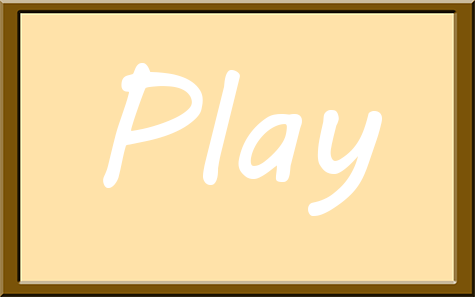
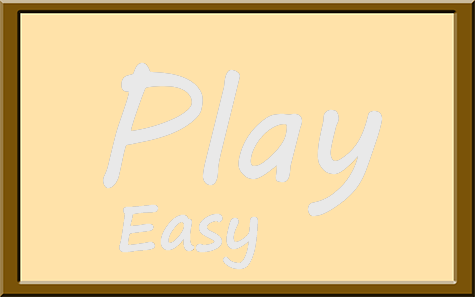
Add difficulty

diff --git a/core/src/com/hardgforgif/dragonboatracing/UI/MenuUI.java b/core/src/com/hardgforgif/dragonboatracing/UI/MenuUI.java
@@ -24,6 +24,10 @@ public class MenuUI extends UI {
 
     Texture playButtonActive;
     Texture playButtonInactive;
+    Texture playButtonActive1;
+    Texture playButtonInactive1;
+    Texture playButtonActive2;
+    Texture playButtonInactive2;
     Texture exitButtonActive;
     Texture exitButtonInactive;
     Texture logo;
@@ -37,6 +41,10 @@ public class MenuUI extends UI {
 
         playButtonActive = new Texture("PlaySelected.png");
         playButtonInactive = new Texture("PlayUnselected.png");
+        playButtonActive1 = new Texture("PlaySelected1.png");
+        playButtonInactive1 = new Texture("PlayUnselected1.png");
+        playButtonActive2 = new Texture("PlaySelected2.png");
+        playButtonInactive2 = new Texture("PlayUnselected2.png");
         exitButtonActive = new Texture("ExitSelected.png");
         exitButtonInactive = new Texture("ExitUnselected.png");
         logo = new Texture("Title.png");
@@ -53,9 +61,27 @@ public class MenuUI extends UI {
         if (mousePos.x < x + PLAY_BUTTON_WIDTH && mousePos.x > x &&
         // cur pos < top_height
                 mousePos.y < PLAY_BUTTON_Y + PLAY_BUTTON_HEIGHT && mousePos.y > PLAY_BUTTON_Y) {
+            batch.draw(playButtonActive1, x, PLAY_BUTTON_Y, PLAY_BUTTON_WIDTH, PLAY_BUTTON_HEIGHT);
+        } else {
+            batch.draw(playButtonInactive1, x, PLAY_BUTTON_Y, PLAY_BUTTON_WIDTH, PLAY_BUTTON_HEIGHT);
+        }
+
+        x = screenWidth / 2 - (3 * PLAY_BUTTON_WIDTH + 10)  / 2;
+        if (mousePos.x < x + PLAY_BUTTON_WIDTH && mousePos.x > x &&
+        // cur pos < top_height
+                mousePos.y < PLAY_BUTTON_Y + PLAY_BUTTON_HEIGHT && mousePos.y > PLAY_BUTTON_Y) {
             batch.draw(playButtonActive, x, PLAY_BUTTON_Y, PLAY_BUTTON_WIDTH, PLAY_BUTTON_HEIGHT);
         } else {
             batch.draw(playButtonInactive, x, PLAY_BUTTON_Y, PLAY_BUTTON_WIDTH, PLAY_BUTTON_HEIGHT);
+        }
+
+        x = screenWidth / 2 + (PLAY_BUTTON_WIDTH + 10) / 2;
+        if (mousePos.x < x + PLAY_BUTTON_WIDTH && mousePos.x > x &&
+        // cur pos < top_height
+                mousePos.y < PLAY_BUTTON_Y + PLAY_BUTTON_HEIGHT && mousePos.y > PLAY_BUTTON_Y) {
+            batch.draw(playButtonActive2, x, PLAY_BUTTON_Y, PLAY_BUTTON_WIDTH, PLAY_BUTTON_HEIGHT);
+        } else {
+            batch.draw(playButtonInactive2, x, PLAY_BUTTON_Y, PLAY_BUTTON_WIDTH, PLAY_BUTTON_HEIGHT);
         }
 
         // Otherwise draw the selected buttons
@@ -86,6 +112,29 @@ public class MenuUI extends UI {
             // Switch to the choosing state
             GameData.mainMenuState = false;
             GameData.choosingBoatState = true;
+            GameData.difficulty = new float[] { 0.9f, 0.9f, 0.9f };
+            GameData.currentUI = new ChoosingUI();
+        }
+
+        x = screenWidth / 2 - (3 * PLAY_BUTTON_WIDTH + 10)  / 2;
+        if (clickPos.x < x + PLAY_BUTTON_WIDTH && clickPos.x > x &&
+        // cur pos < top_height
+                clickPos.y < PLAY_BUTTON_Y + PLAY_BUTTON_HEIGHT && clickPos.y > PLAY_BUTTON_Y) {
+            // Switch to the choosing state
+            GameData.mainMenuState = false;
+            GameData.choosingBoatState = true;
+            GameData.difficulty = new float[] { 0.8f, 0.8f, 0.8f };
+            GameData.currentUI = new ChoosingUI();
+        }
+
+        x = screenWidth / 2 + (PLAY_BUTTON_WIDTH + 10) / 2;
+        if (clickPos.x < x + PLAY_BUTTON_WIDTH && clickPos.x > x &&
+        // cur pos < top_height
+                clickPos.y < PLAY_BUTTON_Y + PLAY_BUTTON_HEIGHT && clickPos.y > PLAY_BUTTON_Y) {
+            // Switch to the choosing state
+            GameData.mainMenuState = false;
+            GameData.choosingBoatState = true;
+            GameData.difficulty = new float[] { 1f, 1f, 1f };
             GameData.currentUI = new ChoosingUI();
         }
 

diff --git a/core/src/com/hardgforgif/dragonboatracing/Game.java b/core/src/com/hardgforgif/dragonboatracing/Game.java
@@ -60,10 +60,10 @@ public class Game extends ApplicationAdapter implements InputProcessor {
 			map[i].createMapCollisions("CollisionLayerRight", world[i]);
 
 			// Create the lanes, and the obstacles in the physics game world
-			map[i].createLanes(world[i]);
+			//map[i].createLanes(world[i]);
 
 			// Create the finish line
-			map[i].createFinishLine("finishLine.png");
+			//map[i].createFinishLine("finishLine.png");
 
 			// Create a new collision handler for the world
 			createContactListener(world[i]);
@@ -250,6 +250,13 @@ public class Game extends ApplicationAdapter implements InputProcessor {
 			// Draw the UI and wait for the input
 			GameData.currentUI.drawUI(UIbatch, mousePosition, Gdx.graphics.getWidth(), Gdx.graphics.getDeltaTime());
 			GameData.currentUI.getInput(Gdx.graphics.getWidth(), clickPosition);
+			if (GameData.choosingBoatState && !(GameData.obstaclesGenerated)) {
+				for (int i = 0; i < 3; i++) {
+					map[i].createLanes(world[i]);
+					map[i].createFinishLine("finishLine.png");
+				}
+				GameData.obstaclesGenerated = true;
+			}
 
 		}
 

diff --git a/core/src/com/hardgforgif/dragonboatracing/GameData.java b/core/src/com/hardgforgif/dragonboatracing/GameData.java
@@ -16,6 +16,7 @@ public class GameData {
     public static boolean showResultsState = false;
     public static boolean resetGameState = false;
     public static boolean GameOverState = false;
+    public static boolean obstaclesGenerated = false;
 
     // Create the game UI and the game music
     public static UI currentUI = new MenuUI();
@@ -48,5 +49,5 @@ public class GameData {
     public static float currentTimer = 0f;
 
     // Difficulty constants for the AI
-    public static float[] difficulty = new float[] { 0.92f, 0.97f, 1f };
+    public static float[] difficulty;
 }

diff --git a/core/src/com/hardgforgif/dragonboatracing/core/Lane.java b/core/src/com/hardgforgif/dragonboatracing/core/Lane.java
@@ -26,7 +26,7 @@ public class Lane {
         leftLayer = left;
         rightLayer = right;
 
-        obstacles = new Obstacle[nrObstacles];
+        obstacles = new Obstacle[Math.round(GameData.difficulty[0] * nrObstacles)];
 
     }
 
